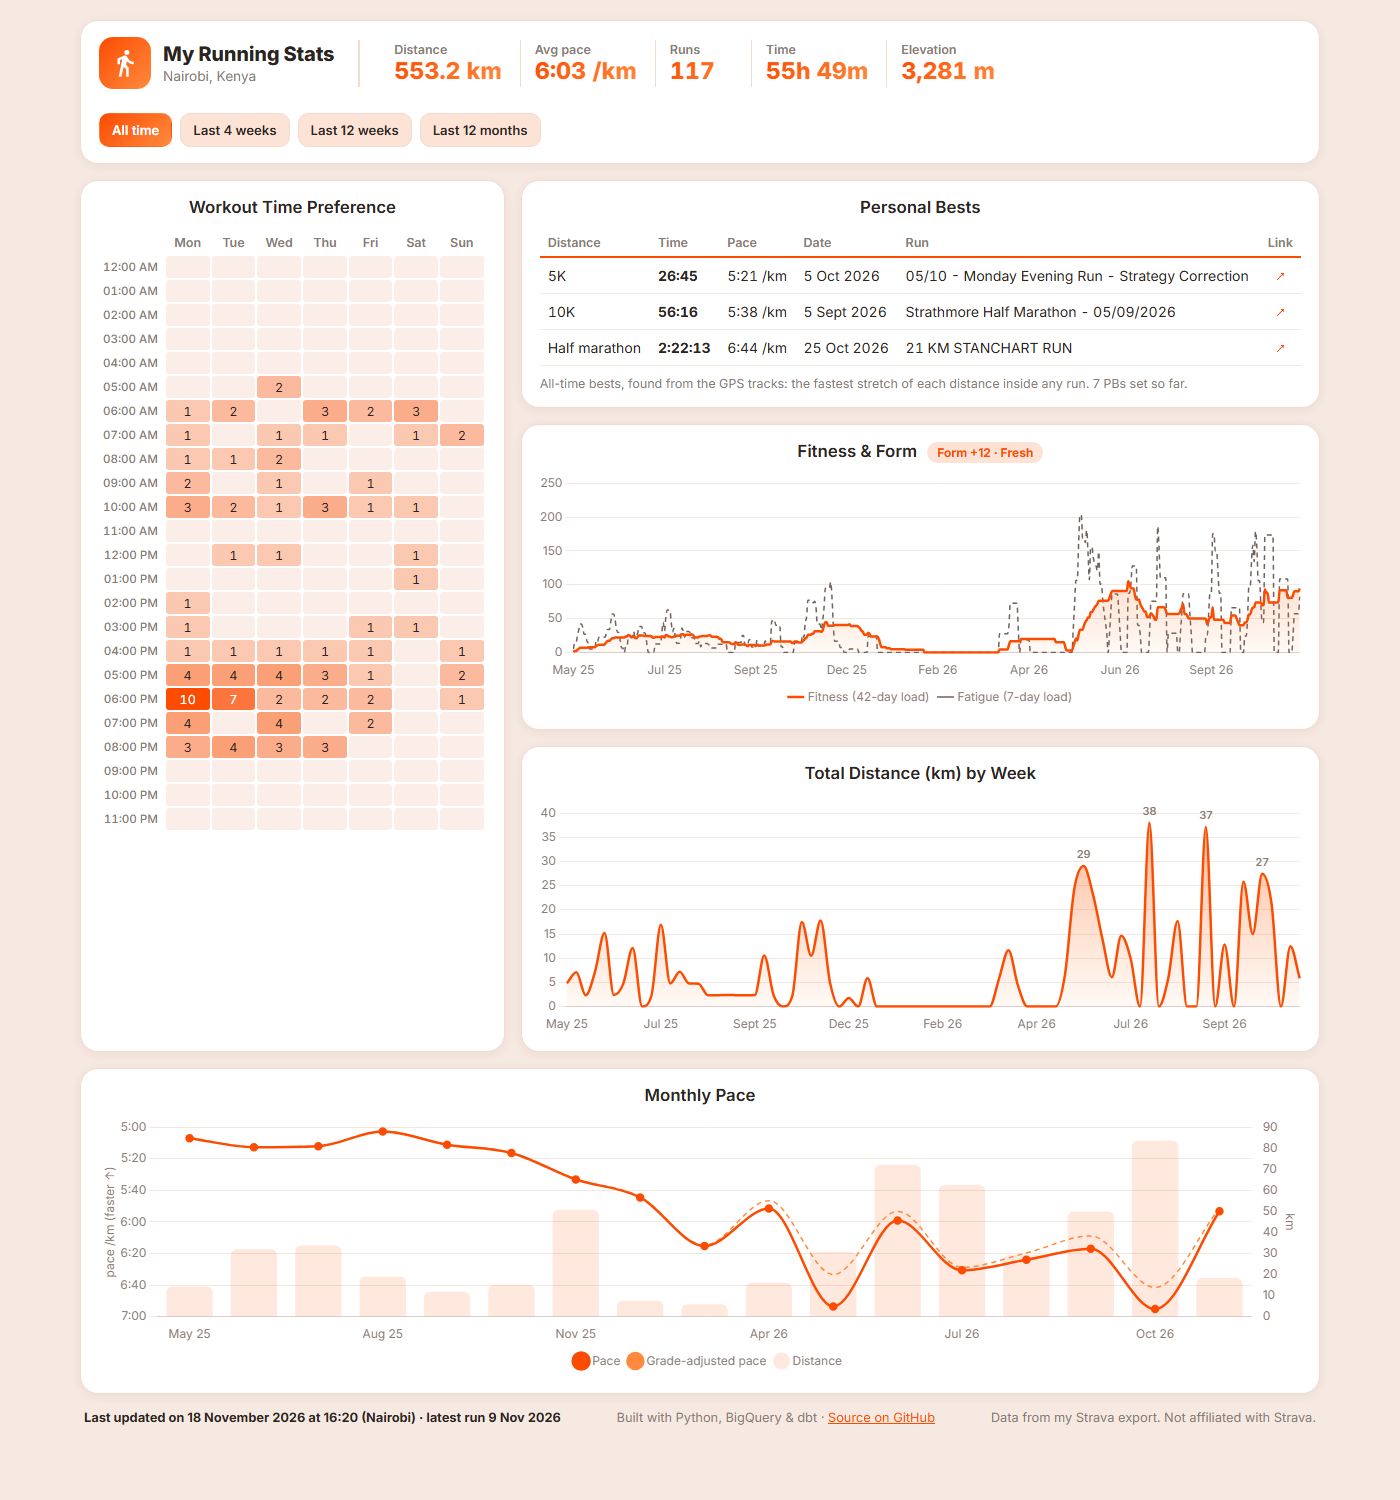
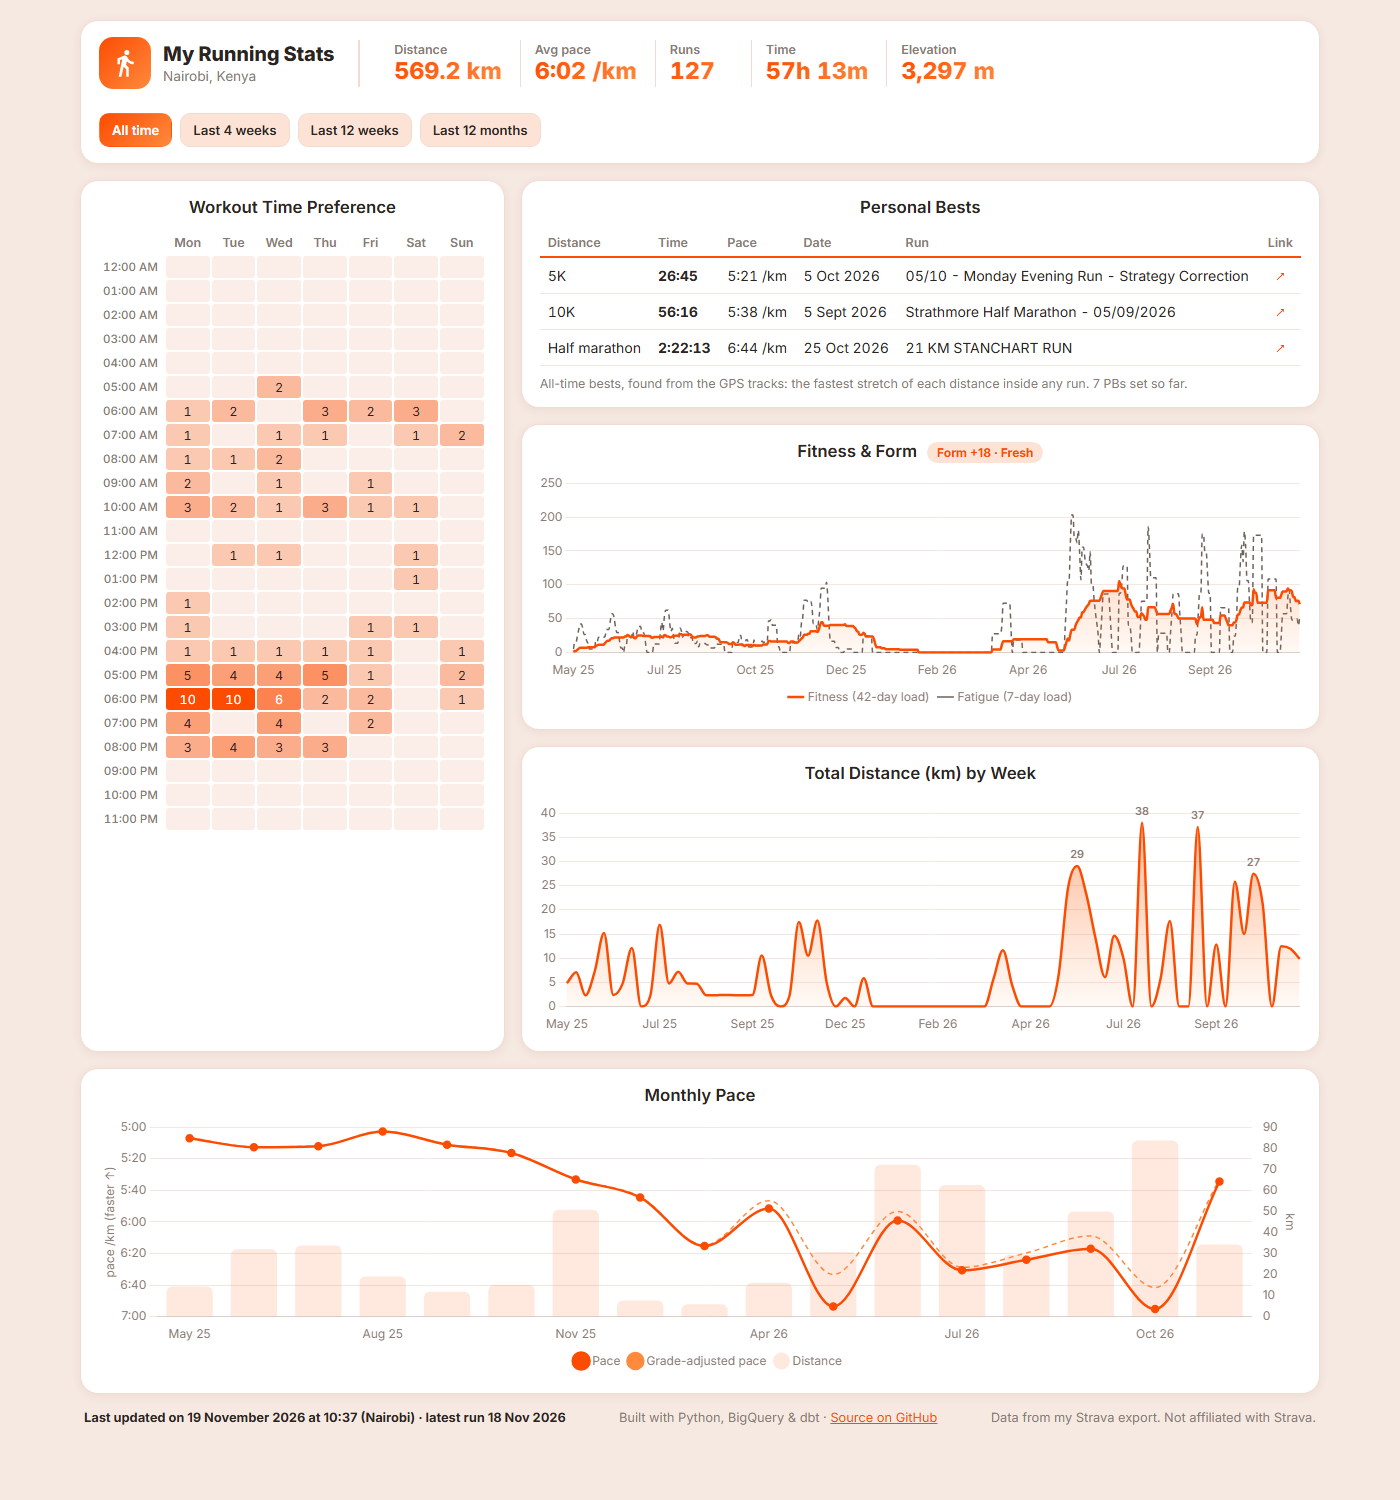
docs: Refresh README insights and screenshot for 19 Nov export

diff --git a/README.md b/README.md
@@ -8,16 +8,16 @@ A personal analytics engineering project. It takes my Strava data export, models
 
 ## Top insights
 
-From 117 runs between May 2025 and November 2026:
+From 127 runs between May 2025 and November 2026 (export of 19 Nov 2026):
 
-- **553 km in 55.8 hours of running**, with 3,281 m of climbing.
-- **Fewer runs, twice the distance.** 2026 has fewer runs than 2025 (50 vs 67) but twice the kilometres (369 vs 185). The average run grew from 2.8 km to 7.4 km while training for half marathons.
+- **569 km in 57.2 hours of running**, with 3,297 m of climbing.
+- **Fewer runs, twice the distance.** 2026 has fewer runs than 2025 (60 vs 67) but more than twice the kilometres (385 vs 185). The average run grew from 2.8 km to 6.4 km while training for half marathons.
 - **Slower pace is the point.** Monthly pace slowed from about 5:07/km to 6:55/km as monthly distance grew from 14 km to 84 km. Long runs are run easy, which is why pace sits next to distance on the chart.
 - **Half marathon PB: 2:22:13** at the Standard Chartered Nairobi Marathon (25 Oct 2026), 6 min 21 s faster than three months earlier.
 - **The 10K PB (56:16) was set inside a half marathon.** The best-effort model searches every stretch of every run, not just runs that were exactly 10 km.
-- **An evening runner.** 61% of runs start between 4 and 9 PM, 6 PM is the most common start time, and Monday is the busiest day (32 runs, against 6 on Sundays).
+- **An evening runner.** 64% of runs start between 4 and 9 PM, 6 PM is the most common start time, and Monday is the busiest day (33 runs, against 6 on Sundays).
 - **Biggest week: 38 km** (20 July 2026). There were no runs in January and February 2026, and the fitness chart shows the drop and the rebuild to a peak on 4 July 2026.
-- **Form today: +12 (fresh).**
+- **Form on 18 Nov 2026: +18 (fresh).**
 
 ---
 
@@ -44,7 +44,7 @@ Strava export (zip) ──► Python ──► BigQuery ──► dbt ──► 
 
 **Cost: free.** BigQuery runs in the free **sandbox**, with no billing account, so it can't be charged. The sandbox shapes the design:
 
-- **No DML** (`INSERT` / `UPDATE` / `MERGE`), so each run fully reloads the raw tables with batch load jobs and dbt builds plain tables and views rather than incremental models. With about 130 activities, a full reload takes seconds.
+- **No DML** (`INSERT` / `UPDATE` / `MERGE`), so each run fully reloads the raw tables with batch load jobs and dbt builds plain tables and views rather than incremental models. With about 140 activities, a full reload takes seconds.
 - **Tables expire after 60 days**, counted from when the table was *created*: reloading with `WRITE_TRUNCATE` doesn't reset the clock. That's fine, because every pipeline run loads the raw tables first (recreating them if they've expired), the export zip is the source of truth, and the website reads its own `data.json`, so it keeps working even if BigQuery is empty.
 - **10 GiB lifetime storage**, so staging models are views (which use no storage) and only the small final tables are stored.
 
@@ -52,7 +52,7 @@ Strava export (zip) ──► Python ──► BigQuery ──► dbt ──► 
 
 What the export actually contains:
 
-- **`activities.csv`**: one row per activity, with 104 columns. The export has 117 runs, 11 walks and 2 hikes, from May 2025 to today.
+- **`activities.csv`**: one row per activity, with 104 columns. The first export had 117 runs, 11 walks and 2 hikes; each new export adds the latest activities (127 runs as of 19 Nov 2026).
 - **`activities/*.gpx`**: one GPS track per activity, with a point roughly every second (position, elevation, time).
 
 What that means for the metrics:
@@ -160,7 +160,7 @@ Each test is a query that returns bad rows; zero rows means pass. `dbt build` ru
 Strava's best efforts are a paid feature, so `fct_best_efforts` finds the fastest 5K, 10K and half inside every run from the 255,651 GPS points.
 
 - **Intermediate layer.** `int_track_point_distances` measures each step with BigQuery GIS (`st_distance` between `st_geogpoint`s) and keeps a running total per activity with `lag()` and `sum() over (partition by activity_id order by point_index)`. `partition by` stops a window from crossing into another run.
-- **Reconciled against Strava.** A test checks that every run's GPS distance is within 5% of Strava's own (actual: +0.65% on average, +2.6% at most, because Strava smooths GPS jitter).
+- **Reconciled against Strava.** A test checks that every run's GPS distance is within 5% of Strava's own (actual: about +0.7% on average, +2.6% at most, because Strava smooths GPS jitter).
 - **The trick.** Comparing every point with every other point is slow. Snapping each track to 10 m marks turns "where was I 5 km later?" into an exact-match self-join (`finish.mark = start.mark + 500`), and the whole model runs in seconds. The cost is up to 10 m (about 3 s) of precision.
 - **No special cases.** A 3 km run has no mark 500, so the join simply produces no 5K for it.
 - **PB history.** `best_time_s = min(best_time_s) over (partition by effort order by run_date)` flags every run that set a new personal best at the time.
